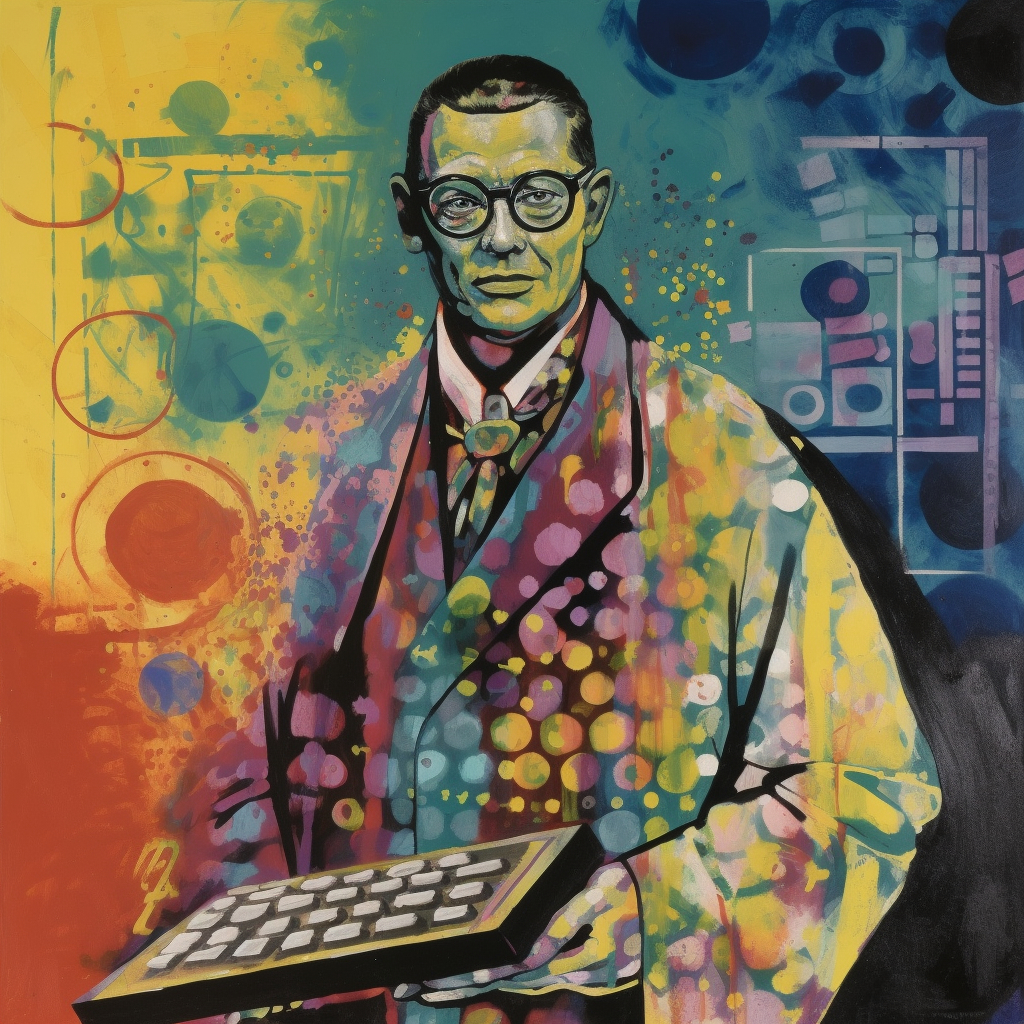
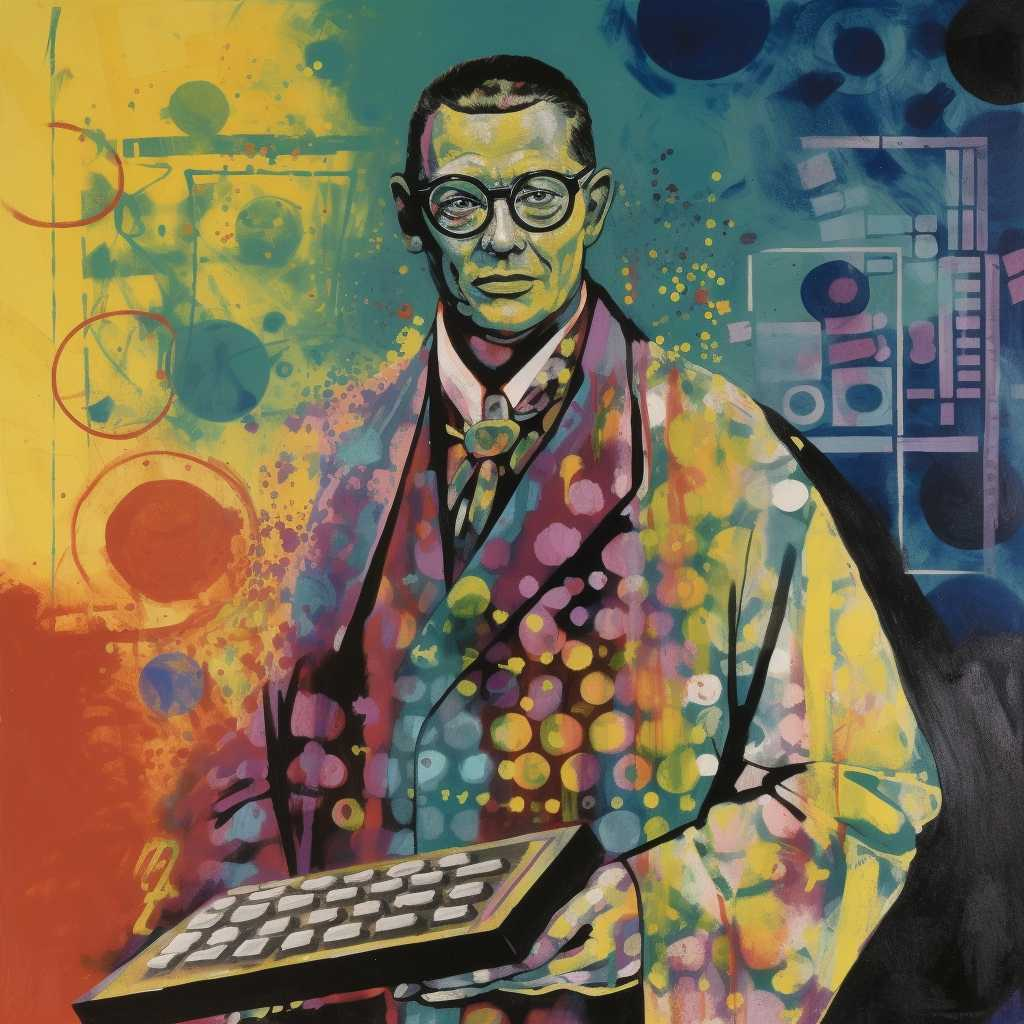
Camel case reference where it did not exist

diff --git a/static/js/carwarring.js b/static/js/carwarring.js
@@ -141,6 +141,11 @@ class MainScene extends Phaser.Scene {
         // Create a group for Bombo instances
         this.bombos = this.add.group();
 
+
+        this.cursorKeys = this.input.keyboard.createCursorKeys();
+
+        this.cameras.main.startFollow(this.car);
+
         // Instantiate and configure two Bombo instances
         for (let i = 0; i < 2; i++) {
             const bombo = new Bombo(this, 768, 512, 'bombo');
@@ -149,10 +154,6 @@ class MainScene extends Phaser.Scene {
             bombo.configure();
             this.bombos.add(bombo);
         }
-
-        this.cursorKeys = this.input.keyboard.createCursorKeys();
-
-        this.cameras.main.startFollow(this.car);
 
         // Create a particle emitter manager
         this.particles = this.add.particles();
@@ -170,7 +171,7 @@ class MainScene extends Phaser.Scene {
         });
 
         // Create text objects for player's HP and enemy count
-        this.hitPointsText = this.add.text(10, 10, `HP: ${this.car.hitPoints}`, {
+        this.hitPointsText = this.add.text(10, 10, `HP: ${this.car.hitpoints}`, {
             fontSize: '16px',
             color: '#ffffff',
           }).setScrollFactor(0);

diff --git a/img_fix.py b/img_fix.py
@@ -1,0 +1,15 @@
+from PIL import Image
+import os
+
+# Set the path to the folder containing the JPEG images
+folder_path = r"D:\code\auth0-example\static\media\upload"
+
+# Loop through all the files in the folder
+for filename in os.listdir(folder_path):
+    # Check if the file is a JPEG image
+    if filename.endswith(".jpg") or filename.endswith(".jpeg"):
+        # Open the image file using Pillow
+        image = Image.open(os.path.join(folder_path, filename))
+        
+        # Convert the image to 50% quality
+        image.save(os.path.join(folder_path, filename), quality=50)
